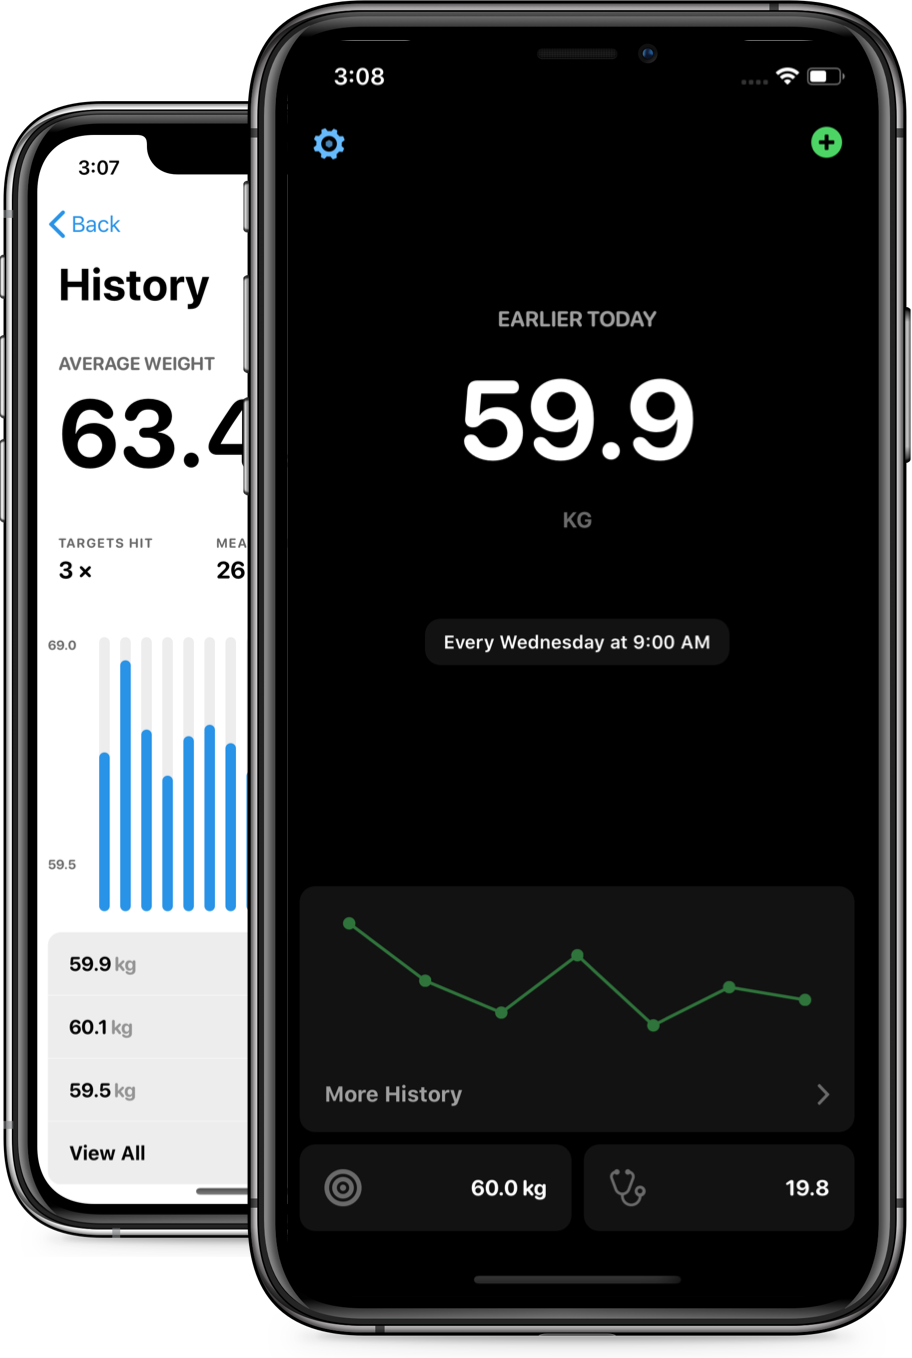
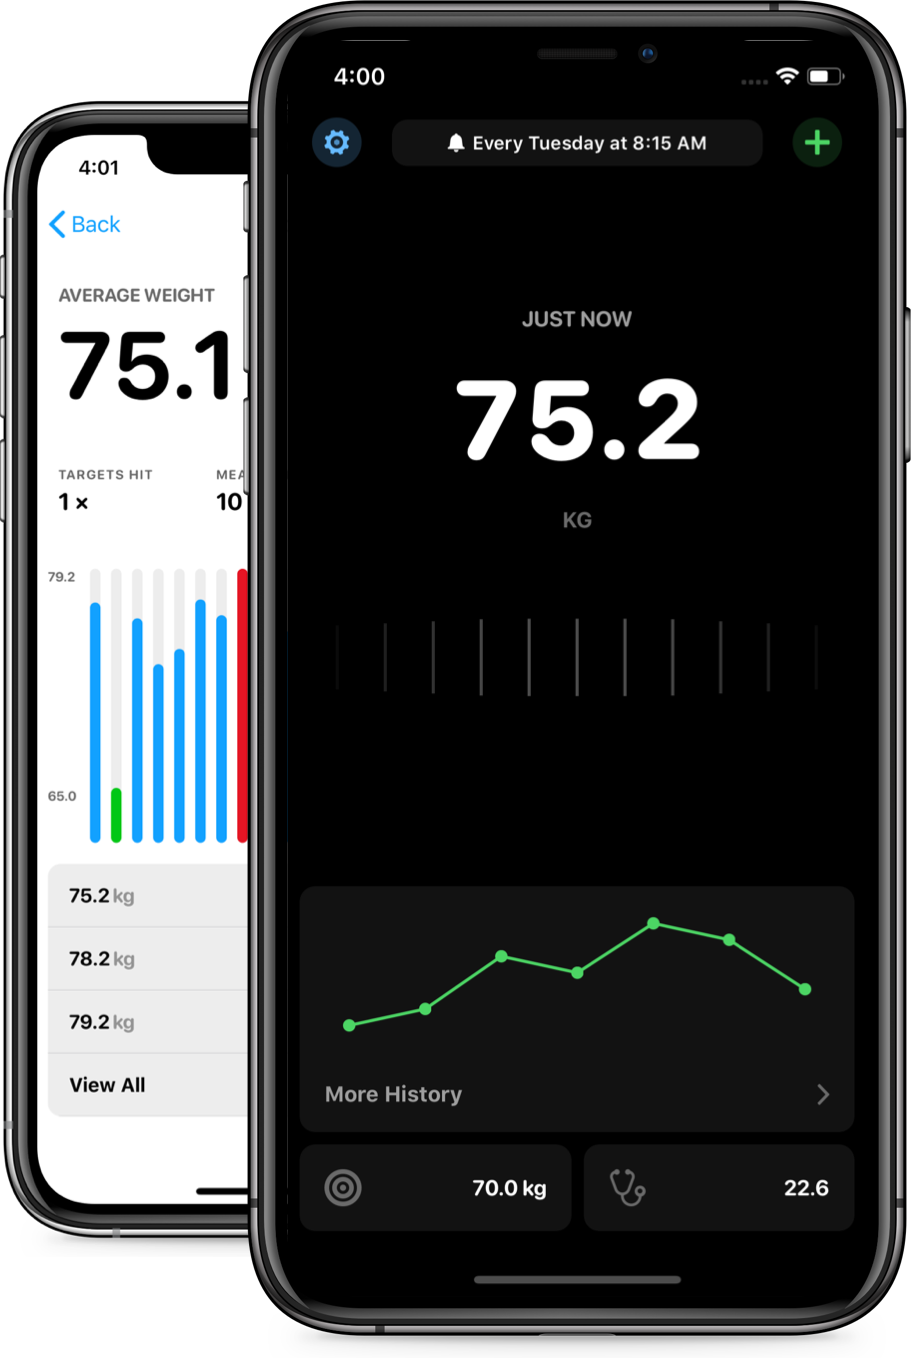
Updated website

diff --git a/css/main-min-min.css b/css/main-min-min.css
@@ -1,0 +1,1 @@
+*{--text-color: #fff;--bg-color: #000;--red: #FB3D38;--blue: #4A9FFF;--green: #4CD564;--shade-1: #6A6A6A;--shade-2: #2D2D2D;--shade-3: #121212;--app-store: url(../img/dark/app-store.svg);--header-visual: -webkit-image-set(url(../img/dark/top-visual.png) 1x, url(../img/dark/top-visual@2x.png) 2x);--video-frame: -webkit-image-set(url(../img/dark/reminder-frame.png) 1x, url(../img/dark/reminder-frame@2x.png) 2x);--bmi-visual: -webkit-image-set(url(../img/dark/bmi-visual.png) 1x, url(../img/dark/bmi-visual@2x.png) 2x);--target-visual: -webkit-image-set(url(../img/light/target-visual.png) 1x, url(../img/light/target-visual@2x.png) 2x);--nav-gradient-2: rgba(0,0,0,0)}@media (prefers-color-scheme: light){*{--text-color: #000;--bg-color: #fff;--blue: #33A4FF;--green: #2EC248;--shade-1: #949494;--shade-2: #D1D1D1;--shade-3: #EDEDED;--app-store: url(../img/light/app-store.svg);--header-visual: -webkit-image-set(url(../img/light/top-visual.png) 1x, url(../img/light/top-visual@2x.png) 2x);--video-frame: -webkit-image-set(url(../img/light/reminder-frame.png) 1x, url(../img/light/reminder-frame@2x.png) 2x);--bmi-visual: -webkit-image-set(url(../img/light/bmi-visual.png) 1x, url(../img/light/bmi-visual@2x.png) 2x);--target-visual: -webkit-image-set(url(../img/light/target-visual.png) 1x, url(../img/light/target-visual@2x.png) 2x);--nav-gradient-2: rgba(255,255,255,0)}}html,body{color:var(--text-color);background:var(--bg-color);font-size:1em;line-height:1.4;margin:0;width:100%;overflow-x:none}.unavailable{opacity:.5;text-decoration:line-through !important}::-moz-selection{background:var(--blue);text-shadow:none}::selection{background:var(--blue);text-shadow:none}hr{display:block;height:1px;border:0;border-top:1px solid #ccc;margin:1em 0;padding:0}audio,canvas,iframe,img,svg,video{vertical-align:middle}fieldset{border:0;margin:0;padding:0}textarea{resize:vertical}.browserupgrade{margin:0.2em 0;background:#ccc;color:#000;padding:0.2em 0}html{box-sizing:border-box;font-family:-apple-system, BlinkMacSystemFont, SegoeUI, 'Segoe UI', 'Roboto', Roboto, Helvetica, Arial, sans-serif, 'Apple Color Emoji', 'Segoe UI Emoji', 'Segoe UI Symbol';-webkit-font-smoothing:antialiased;height:100%}*,*:before,*:after{box-sizing:inherit}input[type='submit'],strong{font-family:-apple-system, BlinkMacSystemFont, SegoeUI, 'Segoe UI', 'Roboto', Roboto, Helvetica, Arial, sans-serif, 'Apple Color Emoji', 'Segoe UI Emoji', 'Segoe UI Symbol'}.main{display:flex;flex-direction:column;height:100%;margin:0 auto;padding:constant(safe-area-inset-top) constant(safe-area-inset-right) constant(safe-area-inset-bottom) constant(safe-area-inset-left);padding:env(safe-area-inset-top) env(safe-area-inset-right) env(safe-area-inset-bottom) env(safe-area-inset-left);width:100%}@media (min-width: 1024px){.main{max-width:1440px}}a.app-store{display:block;width:184px;height:56px;background:url(../img/dark/app-store.svg);background:var(--app-store);background-size:cover;transition:200ms ease-in-out}a.app-store:hover{opacity:0.7}.header{height:100vh;max-height:1080px;width:100vw;max-width:1280px;margin:0 auto;margin-top:32px;padding:0 0 0 32px;display:grid;grid-template-rows:repeat(1, auto);grid-template-columns:repeat(8, 1fr);grid-column-gap:1rem}.header-text{height:100%;width:100%;grid-column-start:1;grid-column-end:6;display:flex;flex-direction:column;align-items:center;justify-content:center}.header-visual{grid-column-start:6;grid-column-end:none;display:flex;flex-direction:column;align-items:center;justify-content:center}span.header-visual-box{background-position:center;background:-webkit-image-set(url(../img/light/top-visual.png) 1x, url(../img/light/top-visual@2x.png) 2x);background:var(--header-visual);background-repeat:no-repeat;background-size:cover;width:100%;height:100%;max-width:456px;max-height:679px;display:block}.header-text-box{display:flex;flex-direction:column;align-items:flex-start;justify-content:center}.header-text-box p{max-width:560px;font-size:1.5rem;padding-bottom:2rem;color:var(--text-color)}h1.eyebrow{font-size:1.5rem;font-weight:400;color:var(--shade-1)}h1.eyebrow strong{font-weight:800;color:var(--text-color)}h2.headline{font-size:4.5rem;font-weight:800;line-height:100%;margin:4px 0}h2{font-size:3rem;font-weight:800;line-height:100%;margin:24px 0}nav{height:64px;width:100vw;position:fixed;z-index:100;display:flex;align-items:center;justify-content:space-between;padding:.5rem 2rem;backdrop-filter:saturate(1.8) blur(20px);-webkit-backdrop-filter:saturate(1.8) blur(20px);background:linear-gradient(to bottom, var(--bg-color) 1%, var(--nav-gradient-2) 100%)}nav .logo{display:block;width:3rem;height:3rem;background:-webkit-image-set(url(../img/app-icon.png) 1x, url(../img/app-icon@2x.png) 2x)}.privacy{padding:2rem}.privacy h1{font-size:3rem;font-weight:800;line-height:100%;margin:24px 0;padding-top:32px}nav .links a{margin:.5rem 1rem .5rem .5rem;text-decoration:none;font-weight:550;color:var(--shade-1);transition:.4s}nav .links a.cta{color:var(--blue);margin-right:0}nav .links a:hover{color:var(--green)}.reminder-video{width:228px;height:465px;display:flex;align-items:center;justify-content:center;position:relative}.video-frame{width:228px;height:465px;position:absolute;z-index:10;background:-webkit-image-set(url(../img/light/reminder-frame.png) 1x, url(../img/light/reminder-frame@2x.png) 2x);background:var(--video-frame);background-repeat:no-repeat;top:4px}.reminder-video video{width:198px;height:430px;position:absolute;top:18px}article{width:100vw;max-width:1280px;margin:0 auto;padding:6rem 2rem}.features{display:grid;grid-template-columns:repeat(3, 1fr);grid-template-rows:repeat(2, auto);grid-gap:2rem 1rem;padding-top:0;margin-top:3rem}.features.small-grid{grid-template-columns:repeat(4, 1fr);margin-top:3rem}.features .section{padding:24px;width:100%;background:var(--shade-3);border-radius:.5rem;height:568px}.features .section p{color:var(--text-color);max-width:22rem;margin:0;font-size:1.125rem;font-weight:600}.features .section h3{margin:0 0 4px 0;font-size:1.125rem;font-weight:800}.features.small-grid .section{height:auto;font-weight:bold}.features.small-grid h4{margin:0}.features.small-grid p{font-size:1rem;font-weight:400;color:var(--shade-1)}.section.small{background:linear-gradient(var(--bg-color), var(--shade-3))}.section.health{grid-column-start:1;grid-column-end:2}.section .feature-content{height:100%;display:flex;flex-direction:column;align-items:center;justify-content:space-between}.section .feature-visual{width:100%;height:100%;display:flex;align-items:center;justify-content:center}.section.reminders{grid-column-start:2;grid-column-end:4;display:flex;align-items:center;justify-content:space-around}.section.reminders i{display:block;font-size:.75rem;margin-top:.5rem}.section.bmi{grid-column-start:1;grid-column-end:3;display:flex;align-items:center;justify-content:space-around}.section.bmi .feature-visual{width:352px;height:478px;display:inherit;background:-webkit-image-set(url(../img/dark/bmi-visual.png) 1x, url(../img/dark/bmi-visual@2x.png) 2x);background:var(--bmi-visual);background-size:cover;background-repeat:no-repeat}.watch{background:var(--shade-3);border-radius:1rem;padding:2rem 2rem 4rem 2rem;margin-top:6rem}.watch h2{max-width:596px}.watch p{max-width:596px;font-size:1.5rem;margin-bottom:5.5rem}.watch-version{display:grid;grid-template-columns:repeat(4, 1fr);grid-gap:1rem}.watch-version .section{display:flex;align-items:center;flex-direction:column;justify-content:center}.watch-version img{width:168px;height:auto;display:inherit}.watch-version h4{text-align:center;margin-top:3rem}.section.target .feature-visual{width:169px;height:303px;display:inherit;background:-webkit-image-set(url(../img/light/target-visual.png) 1x, url(../img/light/target-visual@2x.png) 2x);background:var(--target-visual);margin-top:2.5rem;background-repeat:no-repeat}.section.target{grid-column-start:3;grid-column-end:4}.red{color:var(--red)}.blue{color:var(--blue)}.green{color:var(--green)}.footer{align-items:center;color:var(--shade-1);display:flex;flex-direction:column;justify-content:center;margin-bottom:48px;margin-top:72px}.footer .app-store{margin-bottom:2rem}.footer .copyright{color:var(--shade-1);text-decoration:none;font-weight:600;margin-top:.5rem}.footer .copyright:hover{color:var(--blue)}@media (min-width: 1024px){.footer{margin-bottom:64px;margin-top:144px}}@media (max-width: 700px){.no-mobile{display:none}nav{padding:.55rem}.main{width:100vw;max-height:none;overflow-x:hidden}.header{grid-template-columns:repeat(1, auto);grid-template-rows:repeat(2, auto);margin-top:6rem;padding:.75rem;max-height:none;height:auto;background:linear-gradient(to bottom, var(--bg-color) 1%, var(--shade-3) 100%);padding-bottom:0}.header h2.headline{font-size:4rem}.header-text{grid-column-end:none}.header-visual{grid-column-start:1;height:50vh;margin-top:4rem}nav .cta{display:none}article{padding:6rem 1rem 0rem 1rem}article.watch{border-radius:0}article.watch .headline{font-size:3rem}.watch-version{overflow-x:scroll;-webkit-overflow-scrolling:touch;margin-left:-2rem;width:100vw;padding-left:2rem;padding-right:2rem}.features.small-grid{grid-gap:1rem}.features.small-grid .section{align-items:flex-start}.watch p{margin-bottom:4rem}.features{display:grid;grid-template-columns:repeat(1, auto);grid-template-rows:repeat(4, auto);grid-gap:2rem 1rem;padding-top:0}.features .section{grid-column-start:1 !important;grid-column-end:1 !important;height:auto;width:calc(100vw - 2rem);display:flex;flex-direction:column;align-items:center;justify-content:center}.section.bmi{display:flex;align-items:center;justify-content:space-around;padding-bottom:0rem}.section.bmi .feature-visual{margin-top:1rem;margin-bottom:-2rem}.section.target .feature-visual{margin-bottom:2rem}.section.reminder{display:flex;align-items:center;flex-direction:column;justify-content:space-around}.reminder-video{margin-top:2rem;margin-bottom:1rem}}.banner{margin-top:1.5rem;background:rgba(74,159,255,0.25);display:block;border-radius:10px;padding:.5rem .75rem;text-decoration:none;color:var(--blue);font-weight:600;transition:.3s ease-out}.banner:hover{transform:scale(1.05);background:rgba(74,159,255,0.3)}.new-feature{font-weight:800;padding:2px 4px;border-radius:6px;margin-left:6px;margin-top:6px;display:inline-block;position:absolute;color:#fff;background:var(--blue);text-transform:uppercase;font-size:6px}

diff --git a/index.html b/index.html
@@ -109,6 +109,14 @@
       <h2 class="green">And that's not all...</h2>
       <div class="features small-grid">
         <section class="section">
+          <h4 class="green">Ticker<span class="new-feature">New</span></h4>
+          <p>Quickly change your weight with just one swipe.</p>
+        </section>
+        <section class="section">
+          <h4 class="green">History</h4>
+          <p>See your average weight and the amount of times you've hit your target in a glance.</p>
+        </section>
+        <section class="section">
           <h4 class="green">Siri Shortcuts</h4>
           <p>Setup a shortcut for automation and voice control.</p>
         </section>

diff --git a/css/main-min.css b/css/main-min.css
@@ -16,3 +16,18 @@
   transform: scale(1.05);
   background: rgba(74,159,255,0.3);
 }
+
+.new-feature {
+  font-weight: 800;
+  padding: 2px 4px;
+  border-radius: 6px;
+  margin-left: 6px;
+  margin-top: 6px;
+  display: inline-block;
+  position: absolute;
+
+  color: #fff;
+  background: var(--blue);
+  text-transform: uppercase;
+  font-size: 6px;
+}
